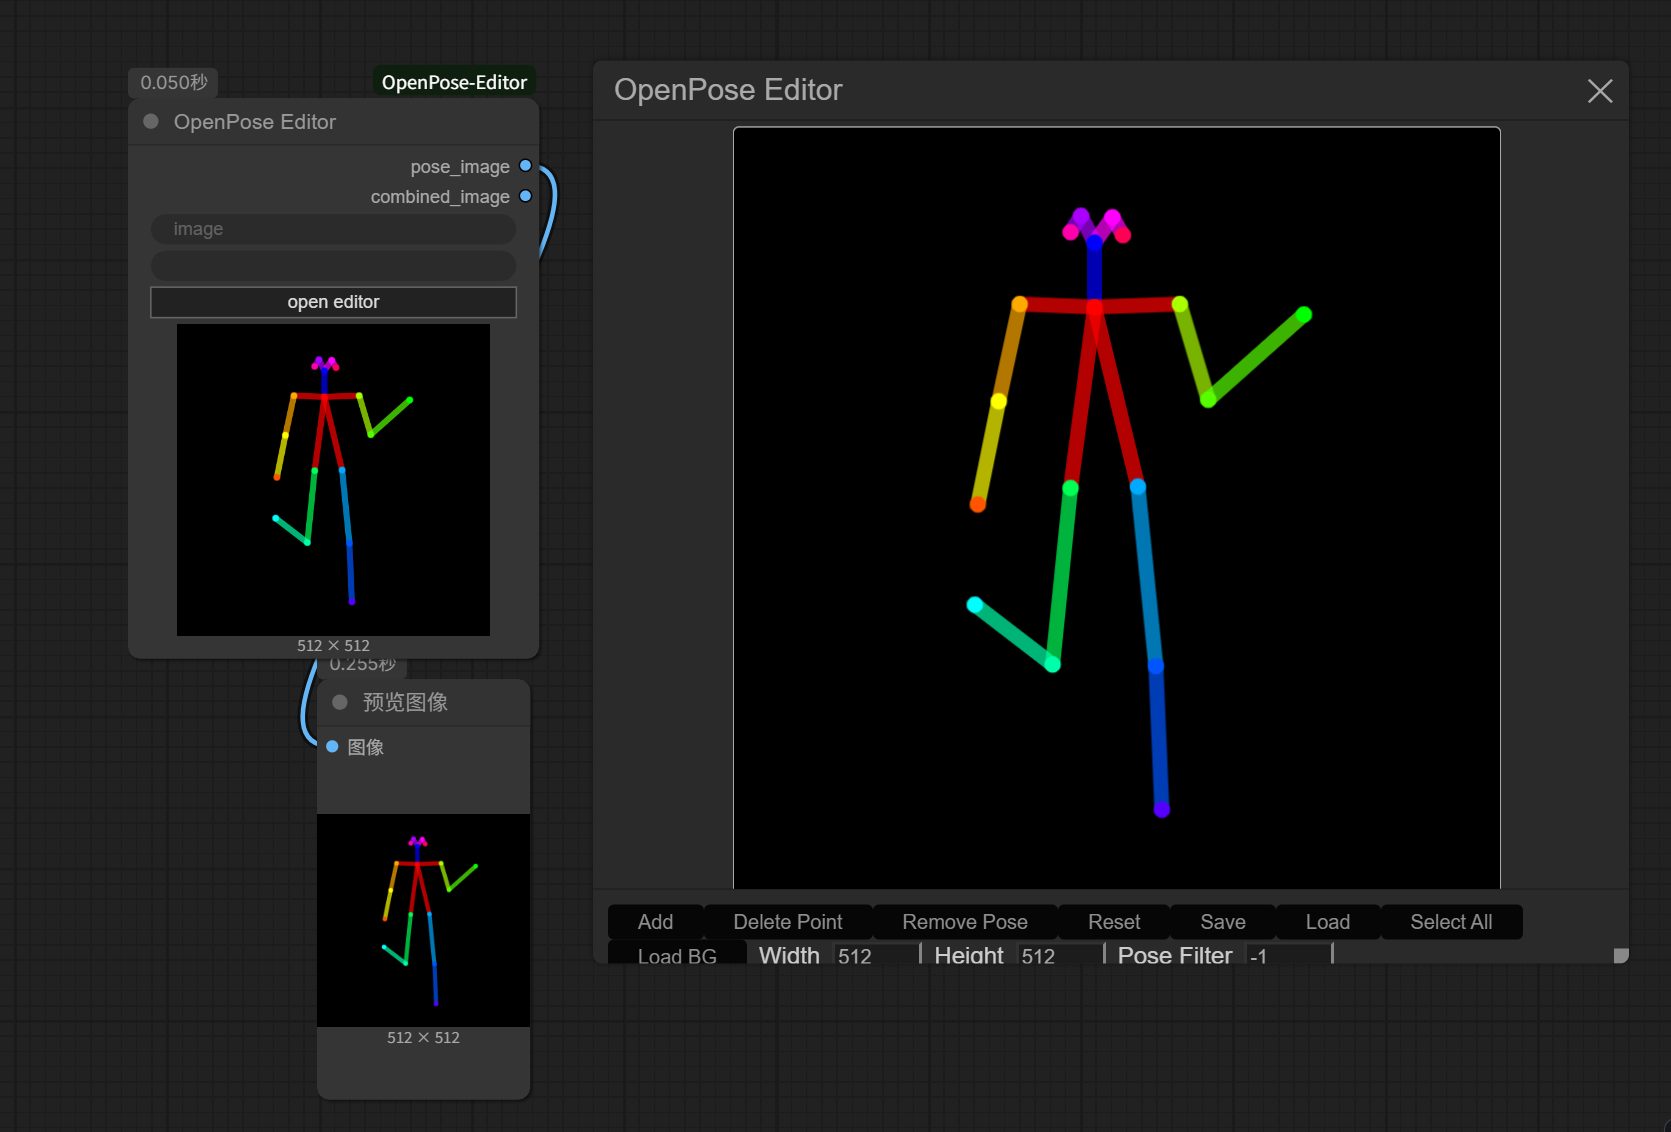
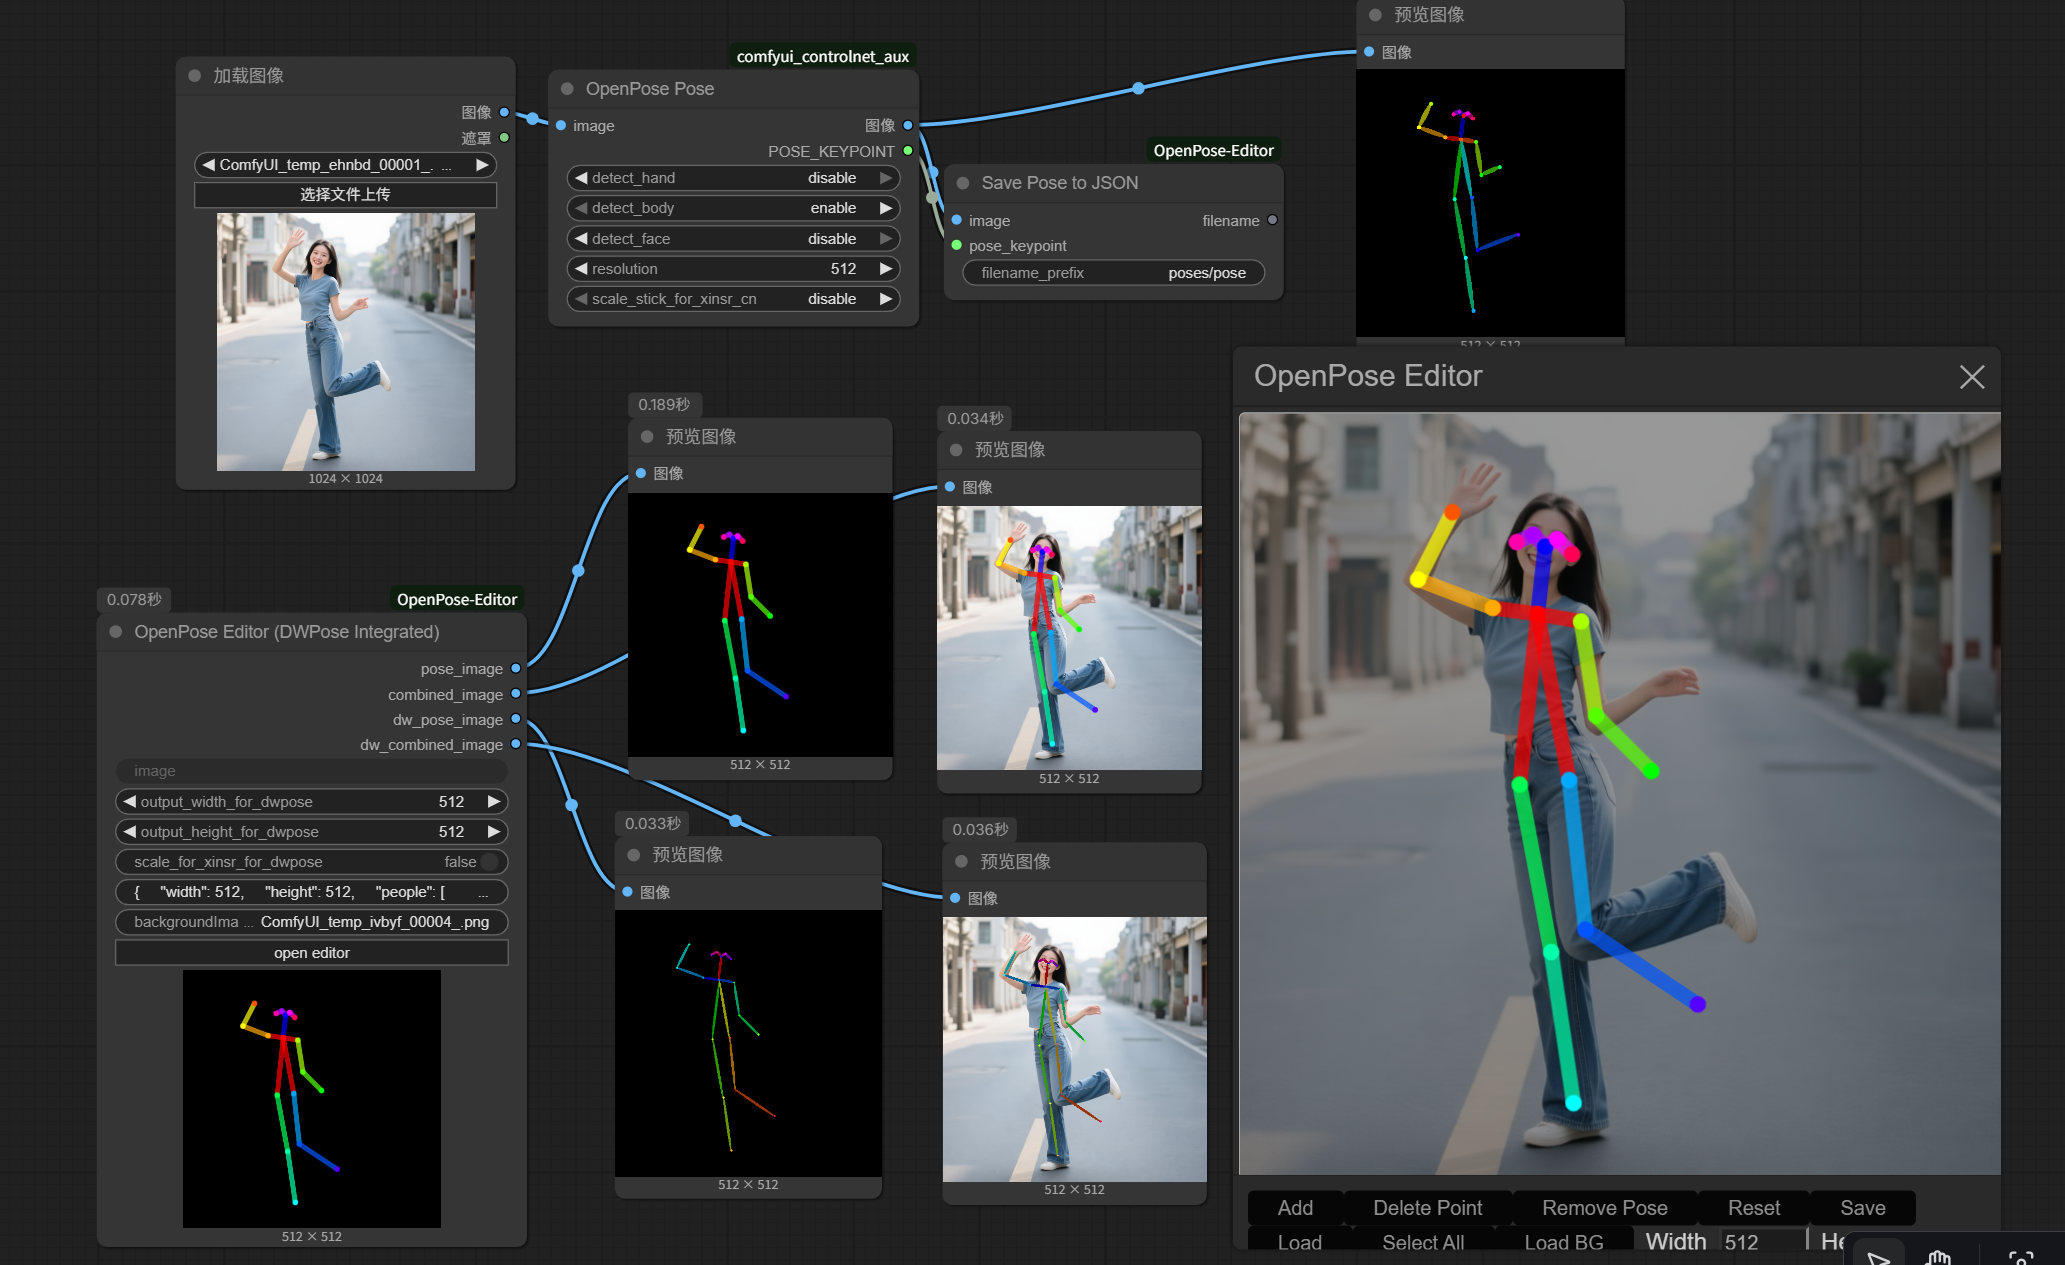
add dwpose

diff --git a/js/openpose.js b/js/openpose.js
@@ -731,11 +731,16 @@ class OpenPosePanel {
 
     saveToNode() {
         const newPoseJson = this.serializeJSON();
-        console.log(`[DEBUG_FRONTEND] ${new Date().toLocaleTimeString()} - saveToNode() called.`);
-        console.log("[DEBUG_FRONTEND] Current node properties:", this.node.properties.savedPose);
-        console.log("[DEBUG_FRONTEND] New pose data to be saved:", newPoseJson);
-        // --- 【调试代码结束】 ---
-        this.node.setProperty("savedPose", this.serializeJSON());
+        
+        // 保存到工作流，用于加载
+        this.node.setProperty("savedPose", newPoseJson);
+
+        // 更新隐藏控件的值，用于当次运行
+        // 这一行是必须的！
+        if (this.node.jsonWidget) {
+            this.node.jsonWidget.value = newPoseJson;
+        }
+
         this.uploadAndSetImages();
     }
 
@@ -944,6 +949,9 @@ class OpenPosePanel {
             
             // --- 新增逻辑：将文件名保存到节点属性中 ---
             this.node.setProperty("backgroundImage", filename);
+            if (this.node.bgImageWidget) {
+                this.node.bgImageWidget.value = filename;
+            }
 
             // --- 更新逻辑：从服务器URL加载图片，而不是本地DataURL ---
             const imageUrl = `/view?filename=${filename}&type=input&subfolder=${data.subfolder}&t=${Date.now()}`;
@@ -1130,24 +1138,40 @@ app.registerExtension({
         nodeType.prototype.onNodeCreated = function () {
             const r = onNodeCreated ? onNodeCreated.apply(this, arguments) : undefined;
 
+            // ================= 【 核心修复开始 】 =================
+            // 修正了属性初始化逻辑，确保 savedPose 总是存在
+
+            // 第一步：确保 this.properties 对象存在
             if (!this.properties) {
                 this.properties = {};
+            }
+            // 第二步：独立检查并确保 this.properties.savedPose 存在且有默认值
+            // 这就修复了之前版本中存在的漏洞
+            if (!this.properties.savedPose) {
                 this.properties.savedPose = "";
             }
+            // ================= 【 核心修复结束 】 =================
 
             this.serialize_widgets = true;
 
             // Output & widget
             this.imageWidget = this.widgets.find(w => w.name === "image");
             this.imageWidget.callback = this.showImage.bind(this);
-            this.imageWidget.disabled = true
-            // console.error(this);
+            this.imageWidget.disabled = true;
 
             // Non-serialized widgets
-            this.jsonWidget = this.addWidget("text", "", this.properties.savedPose, "savedPose");
-            this.jsonWidget.disabled = true
-            this.jsonWidget.serialize = true
-
+            // 现在这一行是100%安全的，因为 this.properties.savedPose 不可能是 undefined
+            this.jsonWidget = this.addWidget("text", "savedPose", this.properties.savedPose, "savedPose");
+            if (this.jsonWidget && this.jsonWidget.inputEl) {
+                this.jsonWidget.inputEl.style.display = "none";
+            } else {
+                // 如果不存在，我们就在控制台打印一个警告，但程序不会崩溃
+                console.warn("[OpenPose Editor] Warning: The hidden jsonWidget could not be fully hidden due to a potential conflict. The editor remains functional.");
+            }
+            this.bgImageWidget = this.addWidget("text", "backgroundImage", this.properties.backgroundImage || "", () => {}, {});
+            if (this.bgImageWidget && this.bgImageWidget.inputEl) {
+                this.bgImageWidget.inputEl.style.display = "none";
+            }
             this.openWidget = this.addWidget("button", "open editor", "image", () => {
                 const graphCanvas = LiteGraph.LGraphCanvas.active_canvas
                 if (graphCanvas == null)
@@ -1171,10 +1195,8 @@ app.registerExtension({
                 resizer.style.cursor = "se-resize";
                 panel.appendChild(resizer);
 
-                // Add to document
                 document.body.appendChild(panel);
 
-                // Handle resizing
                 let isResizing = false;
                 resizer.addEventListener("mousedown", (e) => {
                     e.preventDefault();
@@ -1195,9 +1217,6 @@ app.registerExtension({
             });
             this.openWidget.serialize = false;
 
-            // On load if we have a value then render the image
-            // The value isnt set immediately so we need to wait a moment
-            // No change callbacks seem to be fired on initial setting of the value
             requestAnimationFrame(async () => {
                 if (this.imageWidget.value) {
                     await this.setImage(this.imageWidget.value);

diff --git a/nodes.py b/nodes.py
@@ -3,55 +3,153 @@ import folder_paths
 from nodes import LoadImage
 import json
 import time
+import numpy as np
+import torch
+import cv2
+import math
+from PIL import Image
 
 # ====================================================================================================
-# 节点 1: OpenPose Editor
+# 【最终整合版】OpenPose Editor 节点
 # ====================================================================================================
 class OpenPoseEditor:
     @classmethod
     def INPUT_TYPES(s):
-        return {"required":
-                    {
-                        "image": ("STRING", { "default": "" }),
-                    },
-                }
+        return {
+            "required": {
+                "image": ("STRING", { "default": "" }),
+            },
+            # 新增的可选参数，用于DWPose渲染
+            "optional": {
+                "output_width_for_dwpose": ("INT", {"default": 512, "min": 64, "max": 4096, "step": 64}),
+                "output_height_for_dwpose": ("INT", {"default": 512, "min": 64, "max": 4096, "step": 64}),
+                "scale_for_xinsr_for_dwpose": ("BOOLEAN", {"default": False}),
+            },
+            # 隐藏输入，用于从前端接收数据
+            "hidden": {
+                "savedPose": ("STRING", {"multiline": True}),
+                "backgroundImage": ("STRING", {"multiline": False}), # 新增，用于接收背景图文件名
+            }
+        }
+    
     @classmethod
-    def IS_CHANGED(s, image, **kwargs):
-        """
-        这个方法是解决缓存问题的关键。
-        ComfyUI 在执行前会调用它，来判断节点是否需要重新运行。
-        我们返回当前的时间戳，因为每次运行时间戳都不同，
-        所以 ComfyUI 会认为节点“总是变化的”，从而强制重新执行 get_images 函数。
-        """
-        return time.time()
-    RETURN_TYPES = ("IMAGE", "IMAGE",)
-    RETURN_NAMES = ("pose_image", "combined_image",)
+    def IS_CHANGED(s, image, savedPose, backgroundImage, **kwargs):
+        # 当任何关键数据变化时，都强制重新运行
+        return f"{savedPose}-{backgroundImage}-{time.time()}"
+
+    RETURN_TYPES = ("IMAGE", "IMAGE", "IMAGE", "IMAGE",)
+    RETURN_NAMES = ("pose_image", "combined_image", "dw_pose_image", "dw_combined_image",)
     FUNCTION = "get_images"
     CATEGORY = "image"
+    
+    # 这是一个辅助函数，将渲染逻辑独立出来，保持主函数清晰
+    def render_dw_pose(self, pose_json, width, height, scale_for_xinsr):
+        if not pose_json or not pose_json.strip():
+            return np.zeros((height, width, 3), dtype=np.uint8)
+        try:
+            data = json.loads(pose_json)
+        except json.JSONDecodeError:
+            return np.zeros((height, width, 3), dtype=np.uint8)
 
-    def get_images(self, image):
-        print(f"[DEBUG_BACKEND] {time.strftime('%H:%M:%S')} - get_images() EXECUTED.")
-        print(f"[DEBUG_BACKEND] Received image filename: {image}")
-        # 1. 加载第一个输出：纯姿态图
-        pose_image, pose_mask = LoadImage.load_image(self, image)
+        target_w, target_h = width, height
+        original_w, original_h = data.get('width', target_w), data.get('height', target_h)
+        scale_x, scale_y = target_w / original_w, target_h / original_h
 
-        # 2. 根据第一个图像的文件名，推断出第二个图像的文件名
+        canvas = np.zeros((target_h, target_w, 3), dtype=np.uint8)
+        people = data.get('people', [])
+        if not people:
+            return canvas
+
+        limbSeq = [[2, 3], [2, 6], [3, 4], [4, 5], [6, 7], [7, 8], [2, 9], [9, 10], [10, 11], [2, 12], [12, 13], [13, 14], [2, 1], [1, 15], [15, 17], [1, 16], [16, 18]]
+        colors = [[255, 0, 0], [255, 85, 0], [255, 170, 0], [255, 255, 0], [170, 255, 0], [85, 255, 0], [0, 255, 0], [0, 255, 85], [0, 255, 170], [0, 255, 255], [0, 170, 255], [0, 85, 255], [0, 0, 255], [85, 0, 255], [170, 0, 255], [255, 0, 255], [255, 0, 170], [255, 0, 85]]
+        
+        BASE_RESOLUTION_SIDE = 512.0
+        base_thickness = 2.0
+        target_max_side = max(target_w, target_h)
+        scale_factor = target_max_side / BASE_RESOLUTION_SIDE
+        scaled_joint_radius = int(max(1, base_thickness * scale_factor))
+        scaled_stickwidth = scaled_joint_radius
+
+        if scale_for_xinsr:
+            xinsr_stick_scale = 1 if target_max_side < 500 else min(2 + (target_max_side // 1000), 7)
+            scaled_stickwidth *= xinsr_stick_scale
+
+        for person in people:
+            keypoints_flat = person.get('pose_keypoints_2d', [])
+            keypoints = [ (int(keypoints_flat[i] * scale_x), int(keypoints_flat[i+1] * scale_y)) if keypoints_flat[i+2] > 0 else None for i in range(0, len(keypoints_flat), 3) ]
+            
+            for limb_indices, color in zip(limbSeq, colors):
+                k1_idx, k2_idx = limb_indices[0] - 1, limb_indices[1] - 1
+                if k1_idx >= len(keypoints) or k2_idx >= len(keypoints): continue
+                p1, p2 = keypoints[k1_idx], keypoints[k2_idx]
+                if p1 is None or p2 is None: continue
+                
+                Y, X = np.array([p1[0], p2[0]]), np.array([p1[1], p2[1]])
+                mX, mY = np.mean(X), np.mean(Y)
+                length = np.sqrt((X[0] - X[1])**2 + (Y[0] - Y[1])**2)
+                angle = math.degrees(math.atan2(X[0] - X[1], Y[0] - Y[1]))
+                
+                polygon = cv2.ellipse2Poly((int(mY), int(mX)), (int(length / 2), scaled_stickwidth), int(angle), 0, 360, 1)
+                cv2.fillConvexPoly(canvas, polygon, [int(c * 0.6) for c in color])
+
+            for i, keypoint in enumerate(keypoints):
+                if keypoint is None: continue
+                if i >= len(colors): continue
+                cv2.circle(canvas, keypoint, scaled_joint_radius, colors[i], thickness=-1)
+        
+        return cv2.cvtColor(canvas, cv2.COLOR_BGR2RGB) # 返回RGB格式的NumPy数组
+
+# 【请用这个修正过的版本，替换您文件中的 get_images 函数】
+    def get_images(self, image, savedPose, backgroundImage, output_width_for_dwpose, output_height_for_dwpose, scale_for_xinsr_for_dwpose):
+        # --- 输出 1 & 2: 原有的 Fabric.js 风格预览图 ---
+        pose_image_fabric, _ = LoadImage.load_image(self, image)
+        
         base_name, ext = os.path.splitext(image)
         combined_image_name = f"{base_name}_combined{ext}"
-        
-        # 3. 检查并加载第二个输出：带背景的合成图
         combined_image_path = folder_paths.get_annotated_filepath(combined_image_name)
         
         if not os.path.exists(combined_image_path):
-            print("OpenPose Editor: Combined image not found, returning pose image for both outputs.")
-            return (pose_image, pose_image)
-
-        combined_image, combined_mask = LoadImage.load_image(self, combined_image_name)
+            combined_image_fabric = pose_image_fabric
+        else:
+            combined_image_fabric, _ = LoadImage.load_image(self, combined_image_name)
         
-        return (pose_image, combined_image)
+        # --- 输出 3: 纯 DW Pose 渲染图 ---
+        # 【修改点】在这里使用新的变量名
+        dw_pose_np = self.render_dw_pose(savedPose, output_width_for_dwpose, output_height_for_dwpose, scale_for_xinsr_for_dwpose)
+        dw_pose_image = torch.from_numpy(dw_pose_np.astype(np.float32) / 255.0).unsqueeze(0)
+
+        # --- 输出 4: DW Pose 与背景的合成图 ---
+        if backgroundImage and backgroundImage.strip() != "":
+            # 1. 加载背景图
+            bg_image_path = folder_paths.get_annotated_filepath(backgroundImage)
+            if os.path.exists(bg_image_path):
+                bg_image_pil = Image.open(bg_image_path)
+                bg_image_np = np.array(bg_image_pil.convert("RGB"))
+                
+                # 2. 缩放背景图到目标尺寸
+                # 【修改点】在这里使用新的变量名
+                bg_image_resized = cv2.resize(bg_image_np, (output_width_for_dwpose, output_height_for_dwpose), interpolation=cv2.INTER_AREA)
+
+                # 3. 创建蒙版并进行合成
+                dw_pose_gray = cv2.cvtColor(dw_pose_np, cv2.COLOR_RGB2GRAY)
+                _, mask = cv2.threshold(dw_pose_gray, 1, 255, cv2.THRESH_BINARY)
+                
+                # 4. 使用蒙版将骨骼“粘贴”到背景上
+                dw_combined_np = bg_image_resized.copy()
+                dw_combined_np[mask != 0] = dw_pose_np[mask != 0]
+
+                dw_combined_image = torch.from_numpy(dw_combined_np.astype(np.float32) / 255.0).unsqueeze(0)
+            else:
+                 # 如果背景文件找不到，就返回纯姿态图
+                dw_combined_image = dw_pose_image
+        else:
+            # 如果没有背景，则合成图就是纯姿态图
+            dw_combined_image = dw_pose_image
+            
+        return (pose_image_fabric, combined_image_fabric, dw_pose_image, dw_combined_image)
 
 # ====================================================================================================
-# 节点 2: Save Pose to JSON (最终合并版)
+# 原有的 SavePoseToJson 节点 (可选，可以保留也可以删除)
 # ====================================================================================================
 class SavePoseToJson:
     @classmethod
@@ -60,7 +158,7 @@ class SavePoseToJson:
             "required": {
                 "image": ("IMAGE",), 
                 "pose_keypoint": ("POSE_KEYPOINT",),
-                "filename_prefix": ("STRING", {"default": "json/poses/pose"})
+                "filename_prefix": ("STRING", {"default": "poses/pose"})
             }
         }
 
@@ -71,10 +169,10 @@ class SavePoseToJson:
     CATEGORY = "image"
 
     def save_json(self, pose_keypoint, image, filename_prefix="pose"):
-        # 1. 从 image 张量中自动获取宽度和高度 (来自您的正确版本)
+        # 1. 从 image 张量中自动获取宽度和高度
         image_height, image_width = image.shape[1:3]
         
-        # 2. 从复杂的 POSE_KEYPOINT 数据中提取出纯净的 "people" 列表 (来自您的正确版本)
+        # 2. 从复杂的 POSE_KEYPOINT 数据中提取出纯净的 "people" 列表
         processed_people = []
         if pose_keypoint and isinstance(pose_keypoint, list) and len(pose_keypoint) > 0:
             for result_dict in pose_keypoint:
@@ -98,14 +196,14 @@ class SavePoseToJson:
                         "pose_keypoints_2d": body_keypoints
                     })
         
-        # 3. 准备要写入文件的最终数据结构 (来自您的正确版本)
+        # 3. 准备要写入文件的最终数据结构
         data_to_save = {
             "width": int(image_width),
             "height": int(image_height),
             "people": processed_people
         }
 
-        # 4. 使用正确的路径处理和文件名计数逻辑 (来自我的修复版本)
+        # 4. 使用正确的路径处理和文件名计数逻辑
         output_dir = folder_paths.get_output_directory()
         full_output_folder, filename, _, subfolder, _ = folder_paths.get_save_image_path(filename_prefix, output_dir, image_width, image_height)
         
@@ -129,13 +227,17 @@ class SavePoseToJson:
         final_filename = f"{filename}_{counter:05d}.json"
         file_path = os.path.join(full_output_folder, final_filename)
 
-        # 5. 写入JSON文件并返回结果 (来自您的正确版本)
+        # 5. 写入JSON文件
         with open(file_path, 'w') as f:
             json.dump(data_to_save, f, indent=4)
 
-        print(f"OpenPose Editor: Saved pose data to {final_filename}")
+        print(f"Pose Saver: Saved pose data to {final_filename}")
         
+        # ================== 【 核心修复 】 ==================
+        # 这一行代码在之前的简化版中可能丢失了，现在恢复它
         result_filename = os.path.join(subfolder, final_filename) if subfolder else final_filename
+        # ====================================================
+        
         return {"ui": {"text": [result_filename]}, "result": (result_filename,)}
 
 # ====================================================================================================
@@ -143,10 +245,10 @@ class SavePoseToJson:
 # ====================================================================================================
 NODE_CLASS_MAPPINGS = {
     "Nui.OpenPoseEditor": OpenPoseEditor,
-    "SavePoseToJson": SavePoseToJson
+    "SavePoseToJson": SavePoseToJson  # 如果您还想用它，就保留
 }
 
 NODE_DISPLAY_NAME_MAPPINGS = {
-    "Nui.OpenPoseEditor": "OpenPose Editor",
-    "SavePoseToJson": "Save Pose to JSON"
+    "Nui.OpenPoseEditor": "OpenPose Editor (DWPose Integrated)", # 新名字
+    "SavePoseToJson": "Save Pose to JSON (from Keypoint)"
 }

diff --git a/README.md b/README.md
@@ -7,8 +7,6 @@ Fixed the node to make it compatible with the latest version of ComfyUI; added a
 A port of the [openpose-editor](https://github.com/fkunn1326/openpose-editor) extension for stable-diffusion-webui, now compatible with [ComfyUI](https://github.com/comfyanonymous/ComfyUI)
 
 ![Screenshot](./screenshot1.png)
-![Screenshot](./screenshot2.png)
-![Screenshot](./screenshot3.png)
 
 ## Usage
 
@@ -23,3 +21,9 @@ Use the "load_BG" button to load a background image.
 "pose_image" outputs the image containing only the pose; "combined_image" outputs the image with the pose overlaid on the background.
 
 Use the "pose filter" to filter poses, allowing you to edit a specific pose without interference from others. The default value is -1, which enables editing of all poses. Values greater than or equal to 0 will enable poses sequentially based on the selected index.
+
+Use the "Render Pose from Json" to generate dwpose
+
+## Notice
+
+Thanks for the original node [ComfyUI-OpenPose-Editor](https://github.com/space-nuko/ComfyUI-OpenPose-Editor) and [WilliamPatin](https://github.com/WilliamPatin).I used Gemini 2.5 Pro to modify this node. Please forgive the crude fix and the remaining bugs, as I lack coding expertise. Anyone is welcome to make further improvements!
